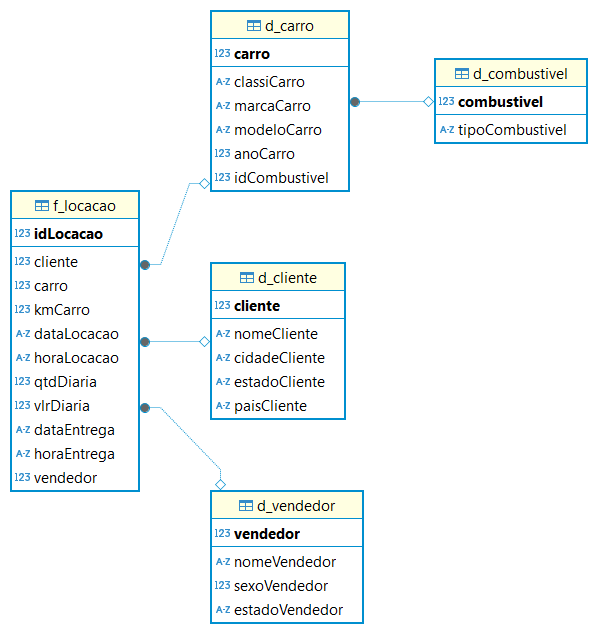
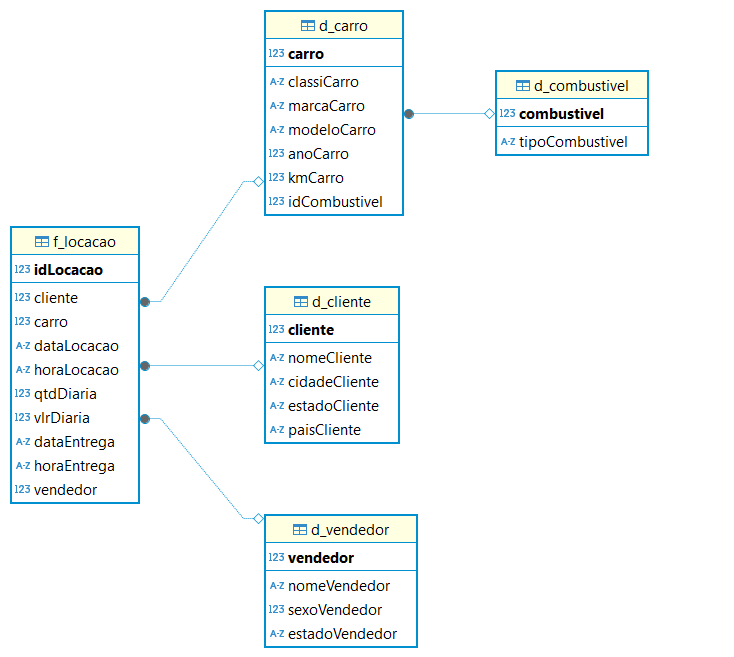
Alteração do README e das evidências do desafio

diff --git a/Sprint_1/Desafio/README.md b/Sprint_1/Desafio/README.md
@@ -19,9 +19,9 @@ O schema concessionaria.sqlite possuia apenas a tabela tb_locacao que contêm o 
 Dessa forma, para colocar a tabela na 1FN e 2FN, que se referem, respectivamente, à retirar grupos e/ou atributos repetitivos e eliminar as dependências parcias deixando apenas na tabela aquilo que se refere a essa entidade, foi necessário dividir a tabela tb_locacao em:
 - d_cliente que contêm os atributos cliente, nomeCliente, cidadeCliente, estadoCliente e paisCliente
 - d_vendedor que contêm os atributos vendedor, nomeVendedor, sexoVendedor e estadoVendedor
-- d_carro que contêm os atributos carro, classiCarro, marcaCarro, modeloCarro, anoCarro, idCombustivel e tipoCombustivel
+- d_carro que contêm os atributos carro, classiCarro, marcaCarro, modeloCarro, anoCarro, kmCarro, idCombustivel e tipoCombustivel
 - d_combustivel que contêm os atributos combustivel e tipoCombustivel
-- f_locacao que contêm os atributos idLocacao, cliente, carro, kmCarro, dataLocacao, horaLocacao, horaLocacao, qtdDiaria, vlrDiaria, dataEntrega, horaEntrega e vendedor
+- f_locacao que contêm os atributos idLocacao, cliente, carro, dataLocacao, horaLocacao, horaLocacao, qtdDiaria, vlrDiaria, dataEntrega, horaEntrega e vendedor
 
 E para colocar a tabela na 3FN, que se refere a retirar as dependências tarnsitivas, foi necessário criar a tabela d_combustivel que retira a dependência transitiva do atributo tipoCombustivel com a chave primaria carro. Portanto, o script para a normalização dos dados envolve a criação das tabelas citadas como também a inserção dos dados presentes na tabela tb_locacao para as novas.
 
@@ -91,4 +91,4 @@ INNER JOIN d_combustivel AS C ON D.idCombustivel = C.combustivel;
 
 Como resultado do script, foi criado o seguinde modelo relacional:
 
-![Modelo dimensional](/Sprint_1/Evidencias/Desafio/modelo_dimensional.png)
+![Modelo dimensional](/Sprint_1/Evidencias/Desafio/concessionaria_modelo_dimensional.png)
